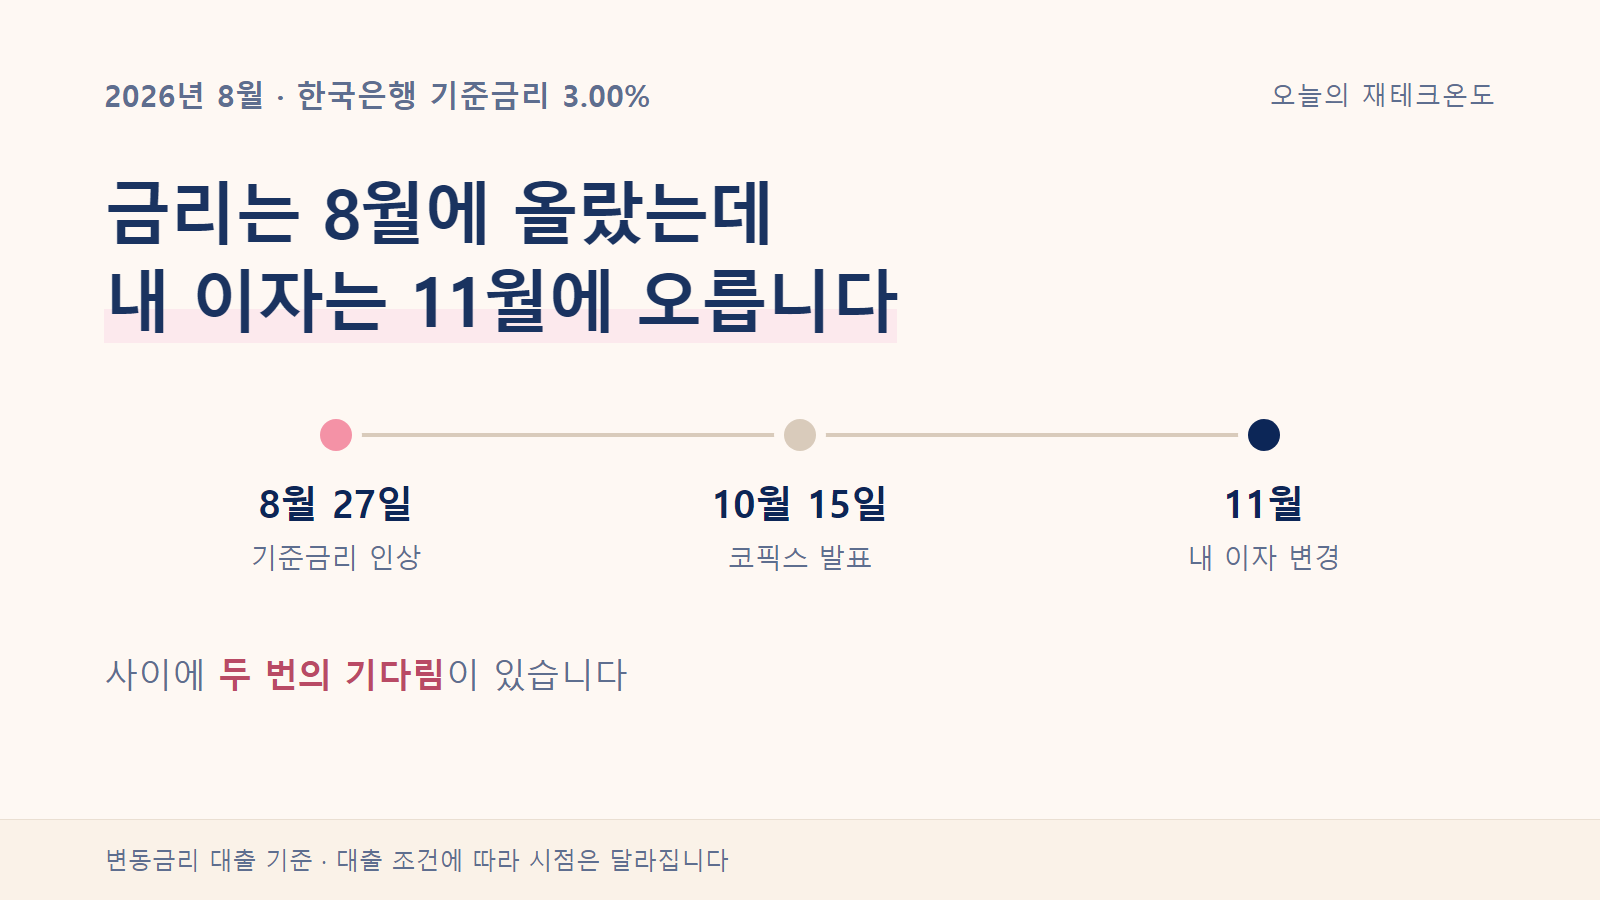
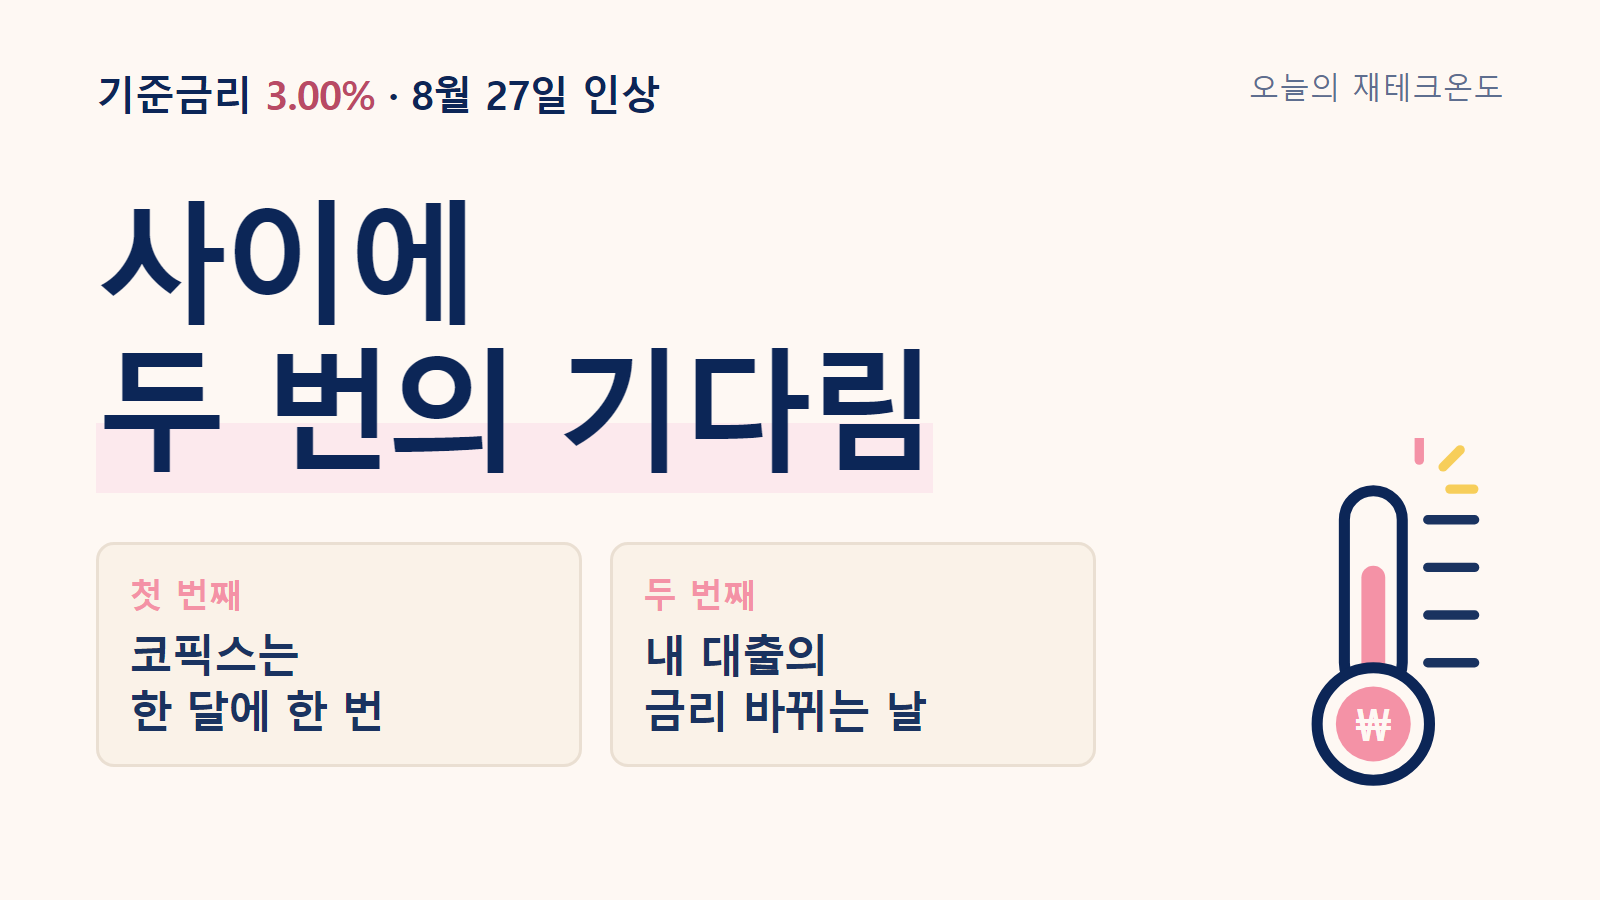
moneyweather: 썸네일 다시 만듦 — 목록 크기에서 읽히게, 답은 남겨두게
목록에 실제로 보이는 크기(320px, 모바일 200px)로 줄여서 보니
세 가지가 문제였다.

1. 글자가 안 읽힌다
   날짜, 「기준금리 인상」 같은 라벨, 하단 면책이 전부 뭉갰다.
   큰 문구 두 줄 말고는 회색 얼룩이었다. 화면 절반이 낭비였다.

2. 답을 다 줘버린다
   제목이 「왜 그대로일까?」라고 묻는데 썸네일이 「11월에 오릅니다」라고
   답해버렸다. 궁금증이 거기서 끝난다.

3. 가정을 단정으로 말한다
   11월 20일은 본문에서 「예를 들어 ~라고 해볼게요」로 든 가정이다.
   썸네일은 사실처럼 단언했다. 밑에 단서를 달았지만 그 글씨는 안 읽힌다.

다시 만든 것:
  큰 글씨 하나 — 「사이에 두 번의 기다림」 (132px → 목록에서 26px)
  칩 두 개 — 코픽스는 한 달에 한 번 / 내 대출의 금리 바뀌는 날
  로고 온도계 — 작은 크기에서 형태로 브랜드를 알아본다
  날짜 단정 제거

답이 「있다」는 것만 보여주고 무엇인지는 안 알려준다.

CLAUDE.md §41.2 에 판단 기준을 남겼다.
  - 원본 100px 이상인 글자만 목록에서 읽힌다. 30px 이하는 넣지 않는다
  - 제목이 질문이면 썸네일은 답이 있다는 것만 보여준다
  - 본문에서 「예를 들어」로 든 숫자를 썸네일에 사실처럼 적지 않는다

diff --git a/MONEYWEATHER/04_이미지/2026-09-05_기준금리3.00_대출금리_반영시점/_소스/01_썸네일.html b/MONEYWEATHER/04_이미지/2026-09-05_기준금리3.00_대출금리_반영시점/_소스/01_썸네일.html
@@ -3,11 +3,16 @@
 <!-- @출력 04_이미지/2026-09-05_기준금리3.00_대출금리_반영시점/01_썸네일.png -->
 <!-- @크기 1600x900 -->
 <!--
-  썸네일 — 목록에서 이 그림 하나만 보고 클릭할지 정한다.
+  썸네일 — 목록에서 320px 폭으로 보인다. 그 크기에서 읽히는 것만 넣는다.
 
-  제목을 그대로 옮겨 적지 않는다. 제목은 옆에 글자로 이미 보인다.
-  대신 제목이 던진 질문의 「답의 모양」을 보여준다.
-  여기서는 8월 27일에 오른 것이 11월에야 도착한다는 시차 그 자체.
+  세 가지를 지킨다.
+    1. 제목을 그대로 옮겨 적지 않는다 (제목이 옆에 글자로 이미 보인다)
+    2. 답을 다 주지 않는다 — 답이 「있다」는 것만 보여주고 열게 만든다
+    3. 가정을 단정으로 말하지 않는다
+       (11월 20일은 본문에서 「예를 들어」로 든 가정이다. 여기 쓰지 않는다)
+
+  글자 크기 기준: 목록 폭 320px = 원본의 1/5.
+  원본 100px 이상이라야 목록에서 20px로 읽힌다.
 
   색 정의는 00_브랜드/색상.md
 -->
@@ -18,68 +23,70 @@
     font-family:'Malgun Gothic','맑은 고딕','Segoe UI',sans-serif;
     background:var(--ivory); color:var(--navy);
   }
-  .card { width:1600px; height:900px; padding:74px 104px 0; display:flex; flex-direction:column;
-          position:relative; }
+  .card { width:1600px; height:900px; padding:66px 96px 0;
+          display:flex; flex-direction:column; position:relative; }
 
-  .top { display:flex; justify-content:space-between; align-items:center; }
-  .kicker { font-size:30px; letter-spacing:.5px; color:var(--muted); font-weight:700; }
-  .brand { font-size:26px; color:var(--muted); letter-spacing:1px; }
+  .top { display:flex; justify-content:space-between; align-items:flex-start; }
+  .rate { font-size:40px; font-weight:800; color:var(--navy-d); letter-spacing:-1px; }
+  .rate span { color:var(--rose); }
+  .brand { font-size:30px; color:var(--muted); letter-spacing:.5px; }
 
-  /* 한 줄짜리 후킹 문구 — 제목을 반복하지 않고 질문만 남긴다 */
-  .hook { margin-top:52px; font-size:68px; font-weight:800; letter-spacing:-2.5px; line-height:1.3; }
+  /* 목록에서 이것만 읽혀도 성립해야 한다 */
+  .hook { margin-top:64px; font-size:132px; font-weight:800;
+          letter-spacing:-6px; line-height:1.12; color:var(--navy-d); }
   .hook em {
     font-style:normal;
-    background:linear-gradient(transparent 62%, var(--pink-bg) 62%);
+    background:linear-gradient(transparent 60%, var(--pink-bg) 60%);
   }
 
-  /* 시차를 눈으로 보여주는 세 칸 — 점을 잇는 선을 점 뒤에 깐다 */
-  .track { margin-top:76px; display:flex; position:relative; }
-  .rail { position:absolute; left:16.6%; right:16.6%; top:14px;
-          height:4px; background:var(--line-d); }
-  .stop { flex:1; text-align:center; position:relative; }
-  .dot { width:32px; height:32px; border-radius:50%; margin:0 auto;
-         background:var(--line-d); position:relative;
-         box-shadow:0 0 0 10px var(--ivory); }
-  .stop.on .dot { background:var(--pink); }
-  .stop.last .dot { background:var(--navy-d); }
-  .stop .when { margin-top:26px; font-size:38px; font-weight:800; color:var(--navy-d); }
-  .stop .what { margin-top:12px; font-size:27px; color:var(--muted); line-height:1.4; }
+  .chips { margin-top:62px; display:flex; gap:28px; max-width:1000px; }
+  .chip {
+    flex:1; background:var(--cream); border:3px solid var(--line);
+    border-radius:18px; padding:26px 30px;
+  }
+  .chip .n { font-size:34px; font-weight:800; color:var(--pink); }
+  .chip .t { margin-top:10px; font-size:44px; font-weight:800;
+             letter-spacing:-1.5px; line-height:1.28; }
 
-  .wait { margin-top:74px; font-size:34px; color:var(--muted); }
-  .wait b { color:var(--rose); font-weight:800; }
-
-  .foot { margin-top:auto; margin-left:-104px; margin-right:-104px;
-          background:var(--cream); border-top:1px solid var(--line);
-          padding:24px 104px; font-size:24px; color:var(--muted); }
+  /* 로고의 온도계 — 작게 줄여도 형태로 알아본다 */
+  .thermo { position:absolute; right:104px; bottom:96px; }
 </style>
 <div class="card">
   <div class="top">
-    <div class="kicker">2026년 8월 · 한국은행 기준금리 3.00%</div>
+    <div class="rate">기준금리 <span>3.00%</span> · 8월 27일 인상</div>
     <div class="brand">오늘의 재테크온도</div>
   </div>
 
-  <div class="hook">금리는 8월에 올랐는데<br><em>내 이자는 11월에 오릅니다</em></div>
+  <div class="hook">사이에<br><em>두 번의 기다림</em></div>
 
-  <div class="track">
-    <div class="rail"></div>
-    <div class="stop on">
-      <div class="dot"></div>
-      <div class="when">8월 27일</div>
-      <div class="what">기준금리 인상</div>
+  <div class="chips">
+    <div class="chip">
+      <div class="n">첫 번째</div>
+      <div class="t">코픽스는<br>한 달에 한 번</div>
     </div>
-    <div class="stop">
-      <div class="dot"></div>
-      <div class="when">10월 15일</div>
-      <div class="what">코픽스 발표</div>
-    </div>
-    <div class="stop last">
-      <div class="dot"></div>
-      <div class="when">11월</div>
-      <div class="what">내 이자 변경</div>
+    <div class="chip">
+      <div class="n">두 번째</div>
+      <div class="t">내 대출의<br>금리 바뀌는 날</div>
     </div>
   </div>
 
-  <div class="wait">사이에 <b>두 번의 기다림</b>이 있습니다</div>
-
-  <div class="foot">변동금리 대출 기준 · 대출 조건에 따라 시점은 달라집니다</div>
+  <svg class="thermo" width="196" height="366" viewBox="0 0 230 430" fill="none">
+    <g stroke-width="11" stroke-linecap="round" style="stroke:var(--navy)">
+      <line x1="150" y1="96"  x2="205" y2="96"/>
+      <line x1="150" y1="152" x2="205" y2="152"/>
+      <line x1="150" y1="208" x2="205" y2="208"/>
+      <line x1="150" y1="264" x2="205" y2="264"/>
+    </g>
+    <path d="M52 96a34 34 0 0 1 68 0v168a34 34 0 0 1-68 0z" stroke-width="13" style="stroke:var(--navy-d)"/>
+    <rect x="72" y="150" width="28" height="180" rx="14" style="fill:var(--pink)"/>
+    <circle cx="86" cy="336" r="66" stroke-width="13" style="fill:var(--ivory);stroke:var(--navy-d)"/>
+    <circle cx="86" cy="336" r="44" style="fill:var(--pink)"/>
+    <text x="86" y="356" font-size="52" font-weight="800"
+          text-anchor="middle" font-family="'Malgun Gothic',sans-serif" style="fill:var(--ivory)">₩</text>
+    <g stroke-width="11" stroke-linecap="round" style="stroke:var(--gold)">
+      <line x1="168" y1="34" x2="188" y2="14"/>
+      <line x1="176" y1="60" x2="204" y2="60"/>
+    </g>
+    <line x1="140" y1="26" x2="140" y2="0" stroke-width="11" stroke-linecap="round" style="stroke:var(--pink)"/>
+  </svg>
 </div>

diff --git a/MONEYWEATHER/03_콘텐츠/초안/2026-09-05_기준금리3.00_대출금리_반영시점/article-tistory.html b/MONEYWEATHER/03_콘텐츠/초안/2026-09-05_기준금리3.00_대출금리_반영시점/article-tistory.html
@@ -3,7 +3,7 @@
 <!-- 제목이 본문 맨 위에 들어 있습니다. 티스토리 제목란에도 같은 제목을 넣으세요. -->
 <div style="background:#FEF8F3; color:#1A3360; font-family:'Malgun Gothic','맑은 고딕',-apple-system,'Segoe UI',sans-serif; line-height:1.75; font-size:17px; letter-spacing:-.01em; max-width:100%; overflow-wrap:break-word; word-break:keep-all; padding:10px 18px;">
 <h1 style="font-size:1.95rem; line-height:1.34; letter-spacing:-1px; font-weight:800; color:#0C2657; margin:0 0 28px">기준금리 3% 됐는데, 내 대출이자는 왜 아직 그대로일까?</h1>
-<figure style="margin:32px 0; max-width:100%"><img src="../../../04_이미지/2026-09-05_기준금리3.00_대출금리_반영시점/01_썸네일.png" alt="8월 27일 기준금리 인상이 10월 코픽스 발표를 거쳐 11월 내 대출이자에 도착하는 시차를 나타낸 썸네일" loading="lazy" style="width:100%; height:auto; border:1px solid #EADFD2; border-radius:10px; display:block"></figure>
+<figure style="margin:32px 0; max-width:100%"><img src="../../../04_이미지/2026-09-05_기준금리3.00_대출금리_반영시점/01_썸네일.png" alt="기준금리 인상과 내 대출이자 사이에 코픽스 발표 주기와 대출 금리 변경일이라는 두 번의 기다림이 있음을 나타낸 썸네일" loading="lazy" style="width:100%; height:auto; border:1px solid #EADFD2; border-radius:10px; display:block"></figure>
 <hr style="border:0; border-top:1px solid #EADFD2; margin:40px 0">
 <p style="margin:0 0 18px">8월 말에 기준금리가 올랐다는 뉴스를 봤습니다.</p>
 <p style="margin:0 0 18px">대출이 있으니 "이번 달부터 이자가 좀 늘겠구나" 했는데, 막상 확인해보니 그대로더라고요.</p>

diff --git a/MONEYWEATHER/03_콘텐츠/초안/2026-09-05_기준금리3.00_대출금리_반영시점/article.html b/MONEYWEATHER/03_콘텐츠/초안/2026-09-05_기준금리3.00_대출금리_반영시점/article.html
@@ -72,7 +72,7 @@
 <body>
 <article class="wrap">
 <h1>기준금리 3% 됐는데, 내 대출이자는 왜 아직 그대로일까?</h1>
-<figure><img src="../../../04_이미지/2026-09-05_기준금리3.00_대출금리_반영시점/01_썸네일.png" alt="8월 27일 기준금리 인상이 10월 코픽스 발표를 거쳐 11월 내 대출이자에 도착하는 시차를 나타낸 썸네일" loading="lazy"></figure>
+<figure><img src="../../../04_이미지/2026-09-05_기준금리3.00_대출금리_반영시점/01_썸네일.png" alt="기준금리 인상과 내 대출이자 사이에 코픽스 발표 주기와 대출 금리 변경일이라는 두 번의 기다림이 있음을 나타낸 썸네일" loading="lazy"></figure>
 <hr>
 <p>8월 말에 기준금리가 올랐다는 뉴스를 봤습니다.</p>
 <p>대출이 있으니 "이번 달부터 이자가 좀 늘겠구나" 했는데, 막상 확인해보니 그대로더라고요.</p>

diff --git a/MONEYWEATHER/CLAUDE.md b/MONEYWEATHER/CLAUDE.md
@@ -2132,6 +2132,39 @@ node 05_자동화/생성/md2html.js <draft.md 경로>    # 초안 → 발행용 
 **제목이 질문이면 썸네일은 답의 모양을 보여준다.**
 전부 알려주는 게 아니라, 답이 있다는 걸 보여줘서 열게 만든다.
 
+### 목록 크기에서 읽히는가
+
+썸네일은 **폭 320px(모바일 200px)로 보인다.** 원본의 1/5이다.
+1600px 원본에서 **100px 이상인 글자만** 목록에서 읽힌다.
+
+만들고 나면 반드시 그 크기로 줄여서 본다. 원본으로만 보면 다 읽히는 것처럼 착각한다.
+
+| 원본 글자 | 목록에서 | 판정 |
+| --- | --- | --- |
+| 130px | 26px | 잘 읽힘 |
+| 100px | 20px | 읽힘 |
+| 44px | 9px | 겨우 |
+| 30px 이하 | 6px | **안 읽힘 — 넣지 않는다** |
+
+안 읽힐 글자를 넣으면 정보가 전달되지도 않으면서 그림만 지저분해진다.
+**작은 글씨를 넣을 바에는 비워둔다.**
+
+### 답을 다 주지 않는다
+
+제목이 질문이면 썸네일은 **답이 있다는 것**만 보여준다. 답 자체를 쓰면 열 이유가 없어진다.
+
+| | |
+| --- | --- |
+| 제목 | 내 대출이자는 왜 아직 그대로일까? |
+| **나쁨** | 「내 이자는 11월에 오릅니다」 — 답을 줘버려 열 이유가 사라진다 |
+| **좋음** | 「사이에 두 번의 기다림」 — 이유가 있다는 건 알겠는데 뭔지는 모른다 |
+
+### 가정을 단정으로 쓰지 않는다
+
+본문에서 「예를 들어」로 든 숫자를 썸네일에 사실처럼 적지 않는다.
+썸네일 아래에 작게 단서를 달아도 **그 글씨는 목록에서 안 읽힌다.**
+단서를 달아야 할 숫자라면 애초에 썸네일에 넣지 않는다.
+
 ### 썸네일에 들어갈 것
 
 * 이 글이 **무슨 주제인지** 한눈에 (기준금리? 세금? 부동산?)

diff --git a/MONEYWEATHER/03_콘텐츠/초안/2026-09-05_기준금리3.00_대출금리_반영시점/미리보기.md b/MONEYWEATHER/03_콘텐츠/초안/2026-09-05_기준금리3.00_대출금리_반영시점/미리보기.md
@@ -3,7 +3,7 @@
 
 # 기준금리 3% 됐는데, 내 대출이자는 왜 아직 그대로일까?
 
-![8월 27일 기준금리 인상이 10월 코픽스 발표를 거쳐 11월 내 대출이자에 도착하는 시차를 나타낸 썸네일](../../../04_이미지/2026-09-05_기준금리3.00_대출금리_반영시점/01_썸네일.png)
+![기준금리 인상과 내 대출이자 사이에 코픽스 발표 주기와 대출 금리 변경일이라는 두 번의 기다림이 있음을 나타낸 썸네일](../../../04_이미지/2026-09-05_기준금리3.00_대출금리_반영시점/01_썸네일.png)
 
 ---
 8월 말에 기준금리가 올랐다는 뉴스를 봤습니다.
